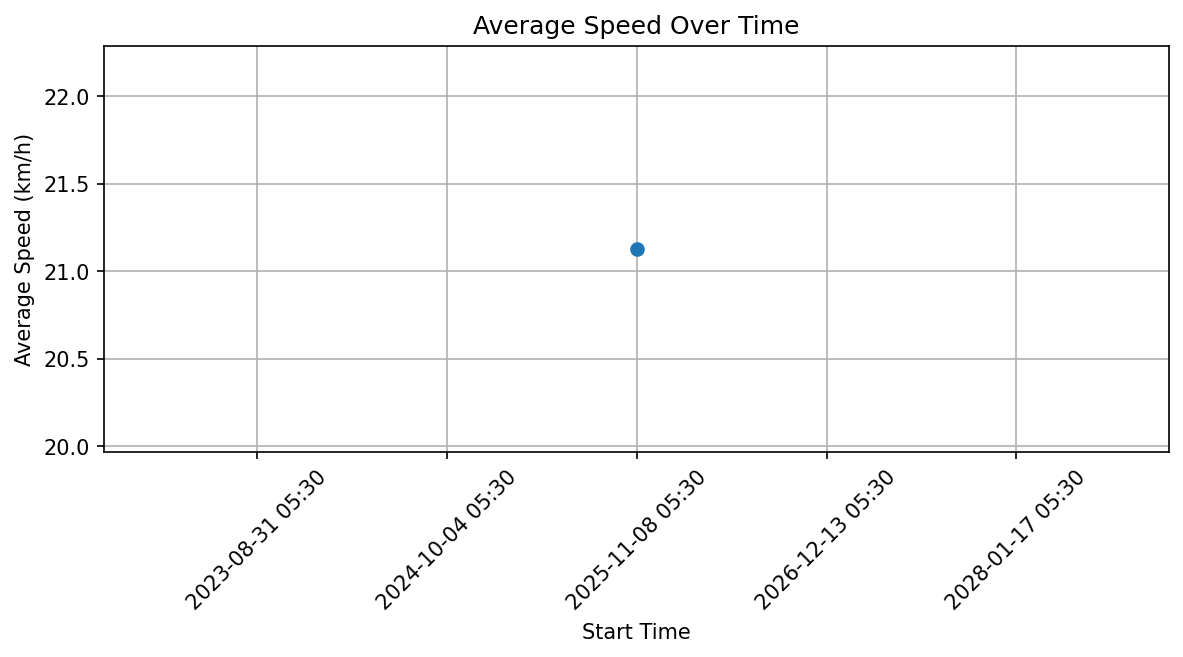
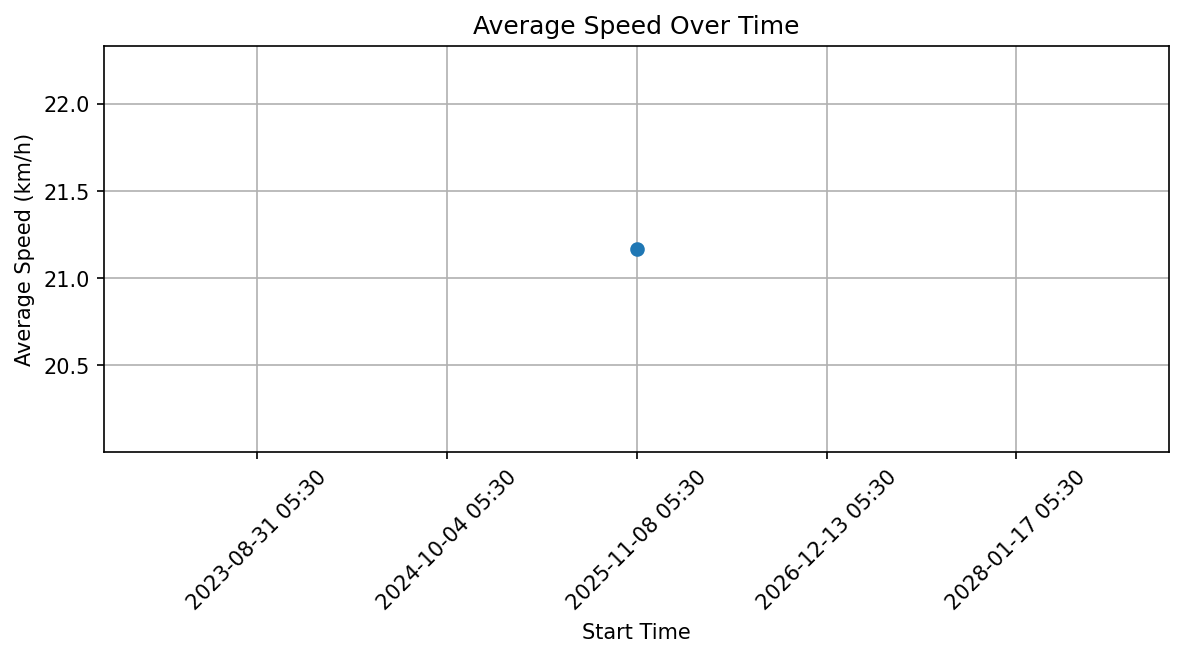
Update README and journey data for accuracy; adjust travel duration and average speed metrics

diff --git a/README.md b/README.md
@@ -1,24 +1,20 @@
 # Colombo Traffic Index (cmb_traffic)
 
-![LastUpdated](https://img.shields.io/badge/last_updated-2025--11--07_15:57:13-green)
+![LastUpdated](https://img.shields.io/badge/last_updated-2025--11--07_16:02:21-green)
 
 ## 📊 About This Index
 
-The Colombo Traffic Index (CTI) provides a real-time measure of traffic congestion across key routes in Colombo. By tracking journey times throughout the day and comparing them to baseline (free-flow) conditions, this index helps:
+The Colombo Traffic Index (CTI) provides a real-time measure of traffic congestion across key routes in Colombo. By tracking average travel speeds throughout the day, this index helps:
 
-- 🚗 **Commuters** plan their travel times and avoid peak congestion
+- 🚗 **Commuters** plan their travel times and identify optimal departure windows
 - 📈 **Researchers** analyze traffic patterns and urban mobility trends
 - 🏛 **Policy makers** make data-driven decisions on infrastructure and traffic management
 
 ### Methodology
 
-We monitor a set of representative routes across Colombo City, measuring travel times at regular intervals throughout the day. The traffic index for each route is calculated as:
+We monitor a set of representative routes across Colombo City, measuring travel times and speeds at regular intervals throughout the day. The overall traffic condition is assessed by calculating the average speed across all monitored routes at each time point.
 
-```python
-Index = Current Travel Time / Minimum Observed Travel Time
-```
-
-An index of 1.0 indicates free-flow conditions, while higher values indicate congestion. For example, an index of 2.0 means travel takes twice as long as under ideal conditions.
+Lower average speeds indicate heavier traffic congestion, while higher speeds suggest free-flow conditions. By tracking these patterns over time, we can identify peak congestion periods and seasonal trends.
 
 ## Overall Traffic Index
 
